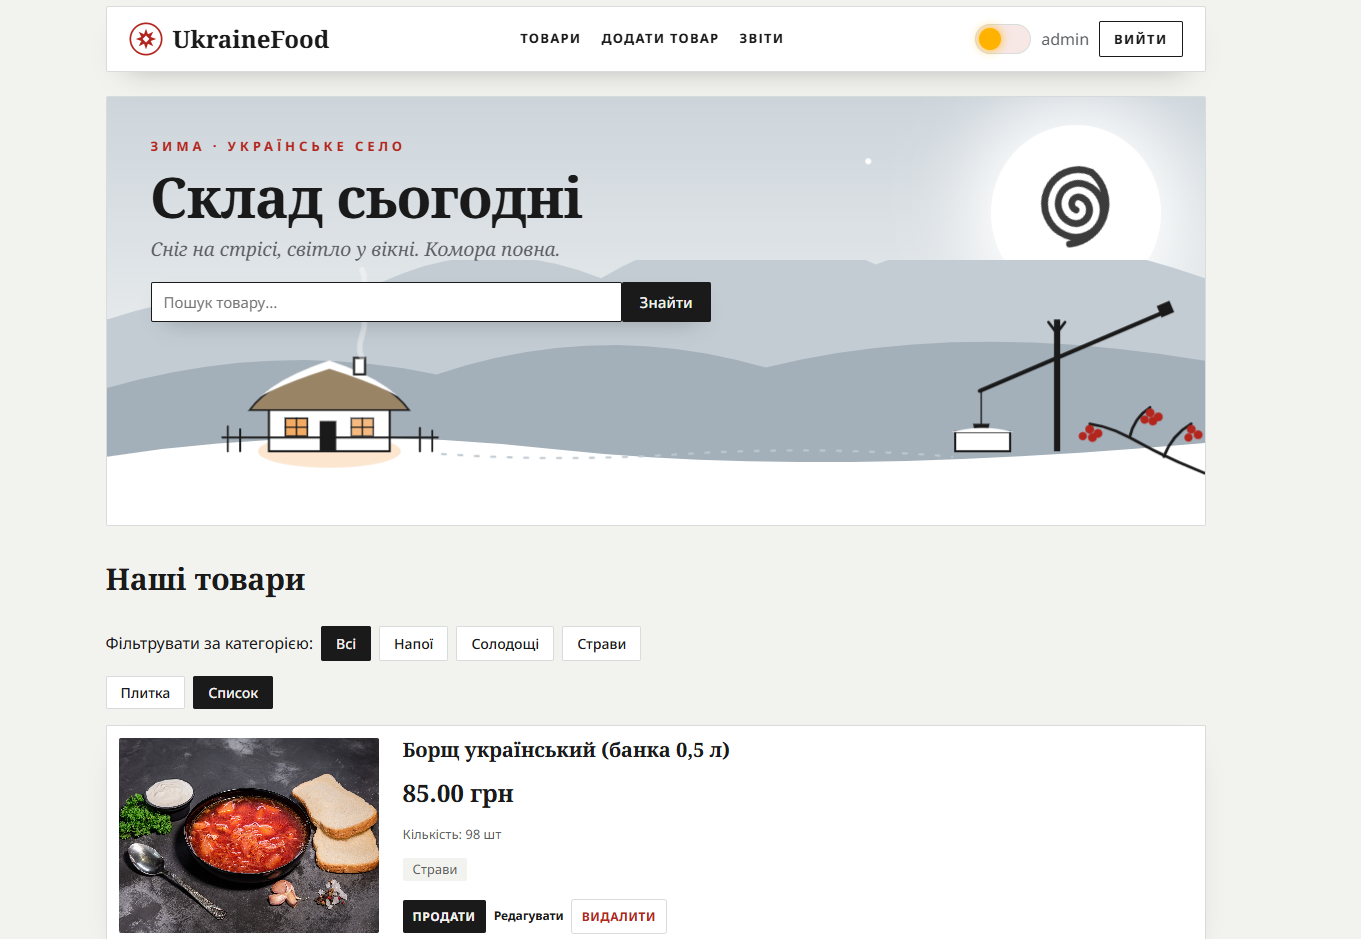
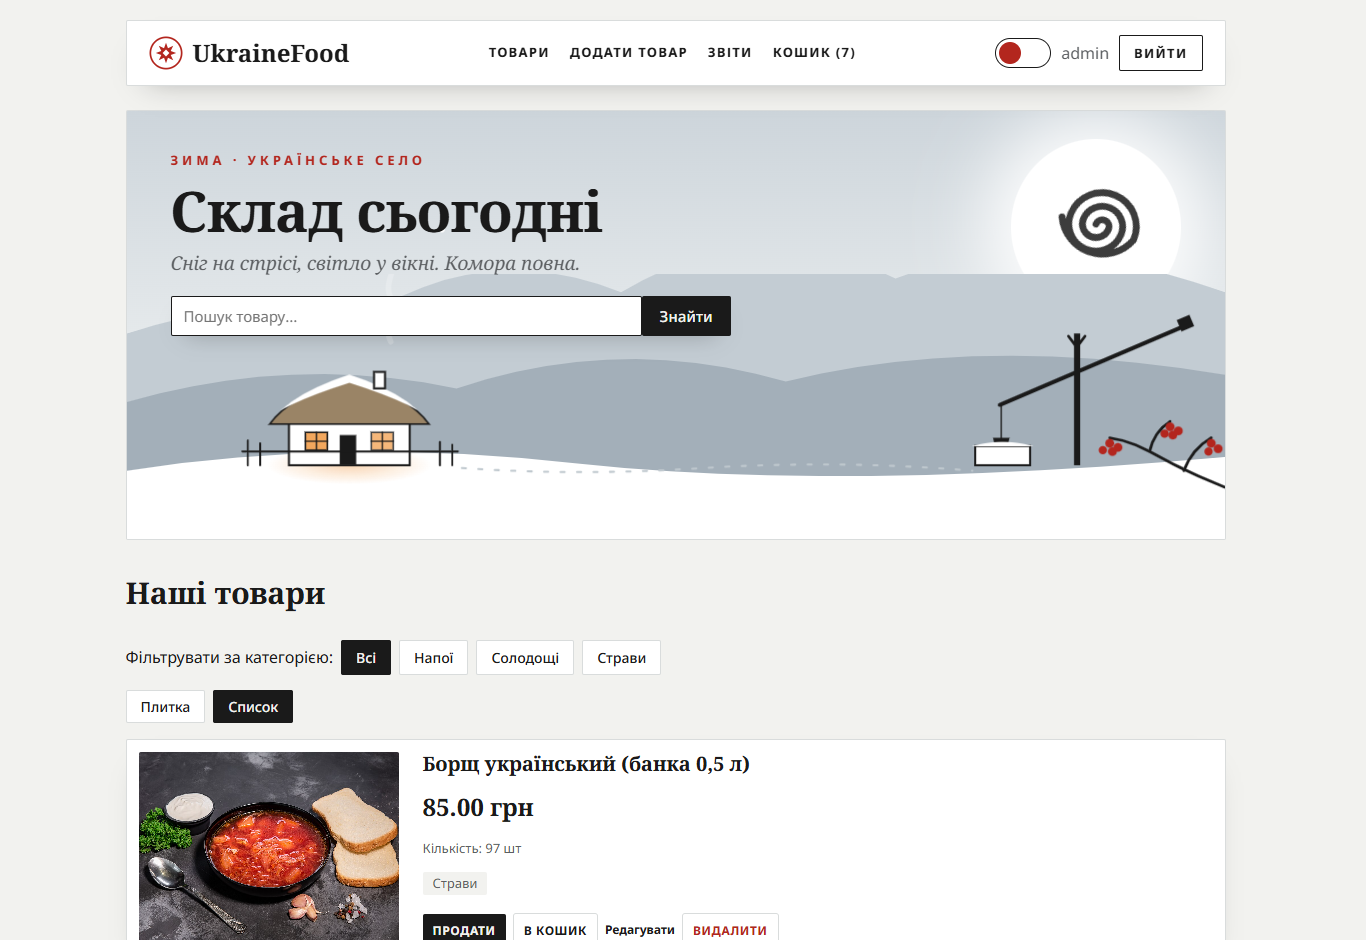
README і скріни: кошик, продажі, мобільна версія

Changed region(s): [[0.0617, 0.0, 0.8949, 0.525], [0.0617, 0.5868, 0.5863, 1.0]]

diff --git a/README.md b/README.md
@@ -14,18 +14,21 @@
 - 💰 **Продаж**: кількість на складі зменшується, товар без залишку позначається «Немає в наявності»
 - 🔍 **Пошук** за назвою і **фільтр** за категоріями
 - 📊 **Звіти**: кількість найменувань, одиниць на складі, загальна вартість складу і товари, що закінчуються
+- 🛒 **Кошик** на сесіях: додавання з картки (не більше, ніж є на складі), прибирання, лічильник у шапці; **оформлення однією транзакцією** — або списуються всі товари, або жоден
+- 🧾 **Історія продажів**: кожен продаж записується окремо, а назва й ціна фіксуються на момент продажу, тож зміна товару не переписує минулих продажів
+- 💵 **Виручка й топ-5** у звітах: кількість продажів, загальна виручка, виручка за сьогодні й найпопулярніші товари
 - 🖼 **Фото товарів**: у кожної картки своє фото, а якщо товару немає в наявності, фото стає чорно-білим (CSS `:has()`)
 - 🌗 **Світла й темна тема** з перемикачем; вибір запам'ятовується (`localStorage`), а за замовчуванням береться тема системи
 - 🗂 **Плитка / Список**: у режимі «Список» картка сама перебудовується на «фото зліва, текст справа» через **container queries** (`@container`), а на вузькому екрані лишається вертикальною
 - ✨ **Плавні переходи між сторінками** (View Transitions): шапка стоїть на місці, вміст м'яко змінюється
 - 📌 **Липка шапка**, кнопка «Наверх» і якорі: після вибору категорії чи пошуку сторінка одразу прокручується до товарів
-- 📱 **Адаптивний дизайн**: на телефоні категорії гортаються стрічкою з прилипанням (`scroll-snap`)
+- 📱 **Адаптивний дизайн**: на телефоні категорії гортаються стрічкою з прилипанням (`scroll-snap`), а меню й кнопки карток стають сіткою 2×2
 - ♿ Поважає системне налаштування **«зменшити рух»** (`prefers-reduced-motion`)
 
 ## 🛠 Технології
 
 - **PHP 8** + **PDO**
-- **MySQL / MariaDB** (зв'язки між таблицями, зовнішній ключ, `JOIN`, `COUNT`, `SUM`)
+- **MySQL / MariaDB** (зв'язки між таблицями, зовнішній ключ, `JOIN`, `COUNT`, `SUM`, `GROUP BY`, транзакції)
 - **HTML5** (семантичні теги, SVG-ілюстрація в шапці)
 - **CSS** без фреймворків: Flexbox, Grid, CSS-змінні, `light-dark()`, CSS nesting, `:has()`, `@container`, View Transitions, `scroll-snap`, `@keyframes`
 - **JavaScript** (без бібліотек): перемикач теми й вигляду списку, `localStorage`
@@ -51,6 +54,10 @@
 | **День**   | ![Звіти](screenshots/reports.png)           | ![Форма](screenshots/add.png)           |
 | **Ніч**    | ![Звіти, ніч](screenshots/reports-dark.png) | ![Форма, ніч](screenshots/add-dark.png) |
 
+| Кошик | Телефон |
+| --- | --- |
+| ![Кошик](screenshots/cart.png) | ![Мобільна версія, ніч](screenshots/mobile.png) |
+
 ## 🚀 Як запустити локально
 
 1. Встановіть [XAMPP](https://www.apachefriends.org/) і запустіть **Apache** та **MySQL**.
@@ -75,6 +82,10 @@
 | `add.php`, `edit.php`                 | додавання й редагування товару       |
 | `delete.php`, `sell.php`              | видалення й продаж (POST + CSRF)     |
 | `report.php`                          | звіти по складу                      |
+| `sales.php`                           | історія продажів                     |
+| `cart.php`                            | кошик                                |
+| `cart_add.php`, `cart_remove.php`     | додавання й прибирання з кошика      |
+| `checkout.php`                        | оформлення кошика однією транзакцією |
 | `login.php`, `logout.php`, `auth.php` | вхід, вихід і перевірка авторизації  |
 | `functions.php`                       | CSRF-захист і перевірка даних товару |
 | `header.php`, `footer.php`            | спільні шапка й футер сторінок       |
@@ -85,9 +96,8 @@
 
 ## 🗺 Плани
 
-- Історія продажів
-- Корзина й оформлення замовлень для покупців
 - Пагінація
+- Публікація онлайн
 
 Фото товарів: [Wikimedia Commons](https://commons.wikimedia.org/), автори й ліцензії перелічено в [images/CREDITS.md](images/CREDITS.md).
 
